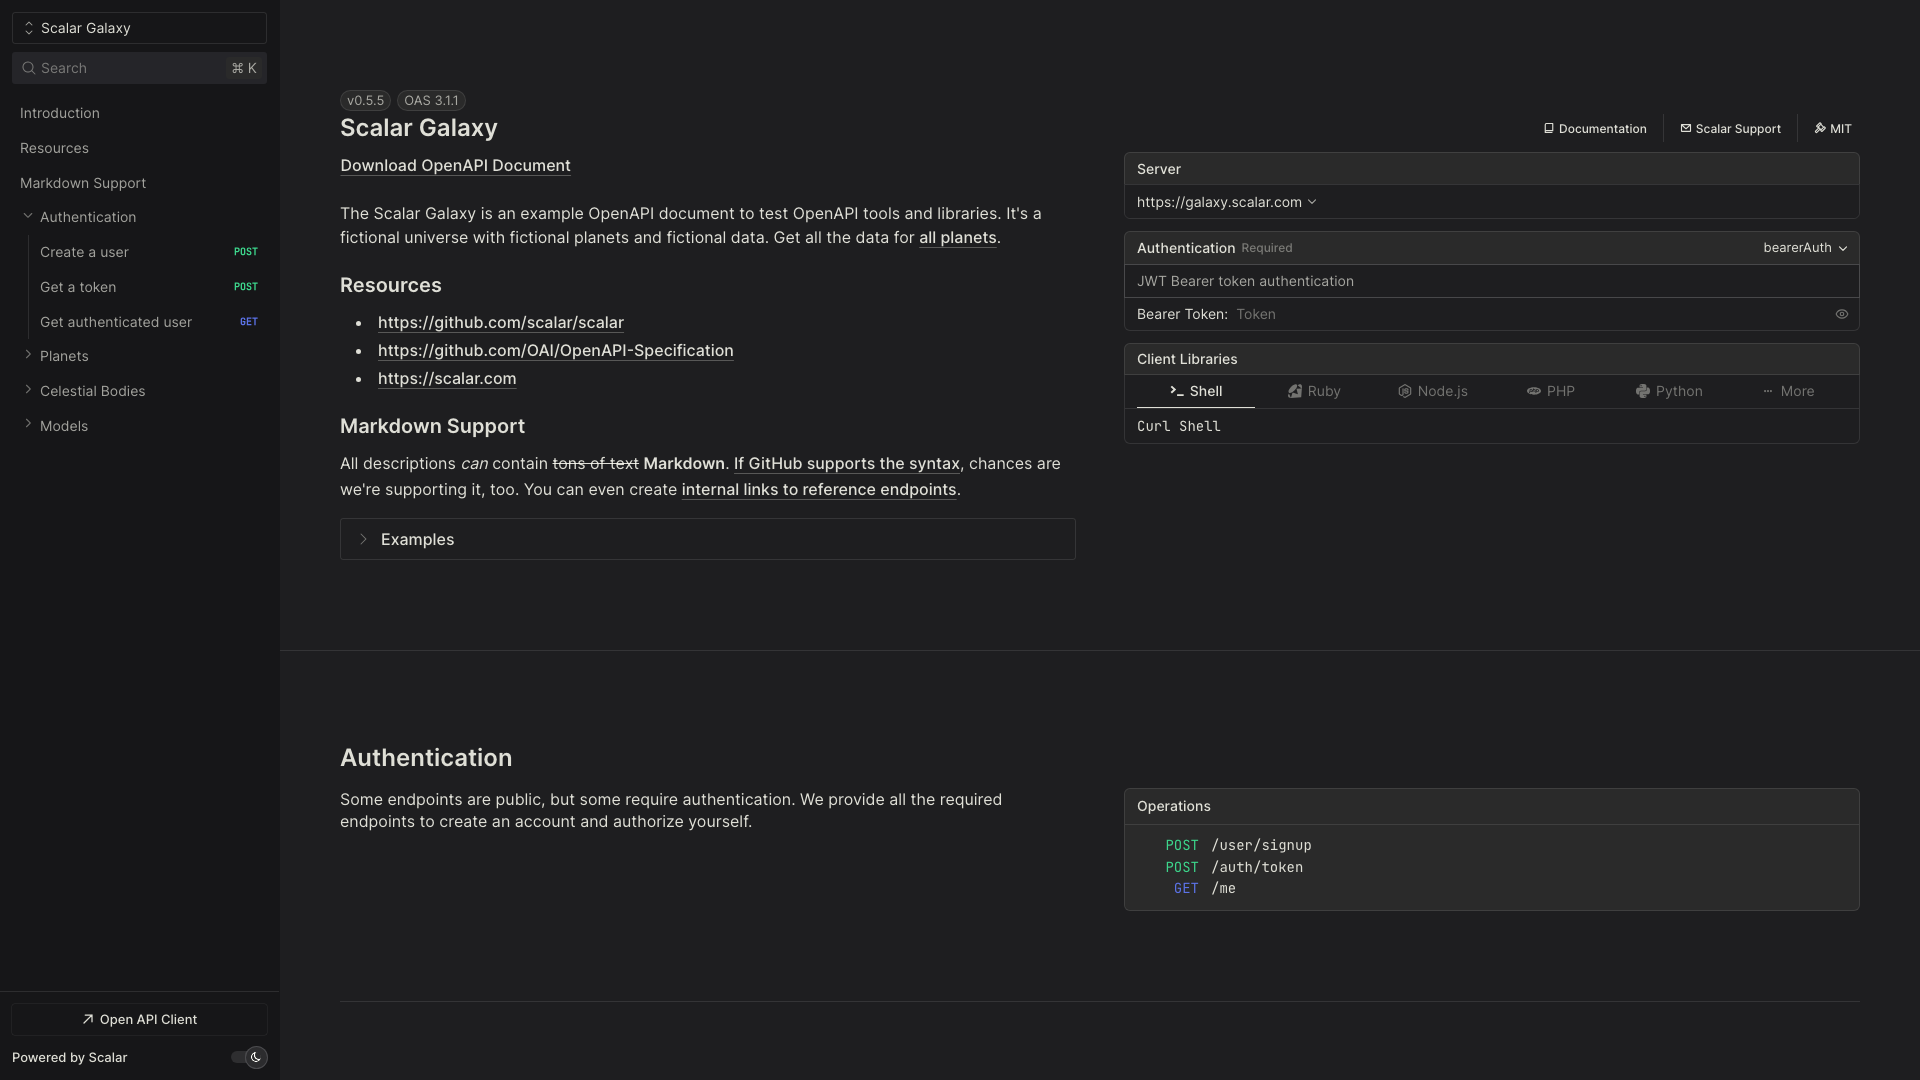
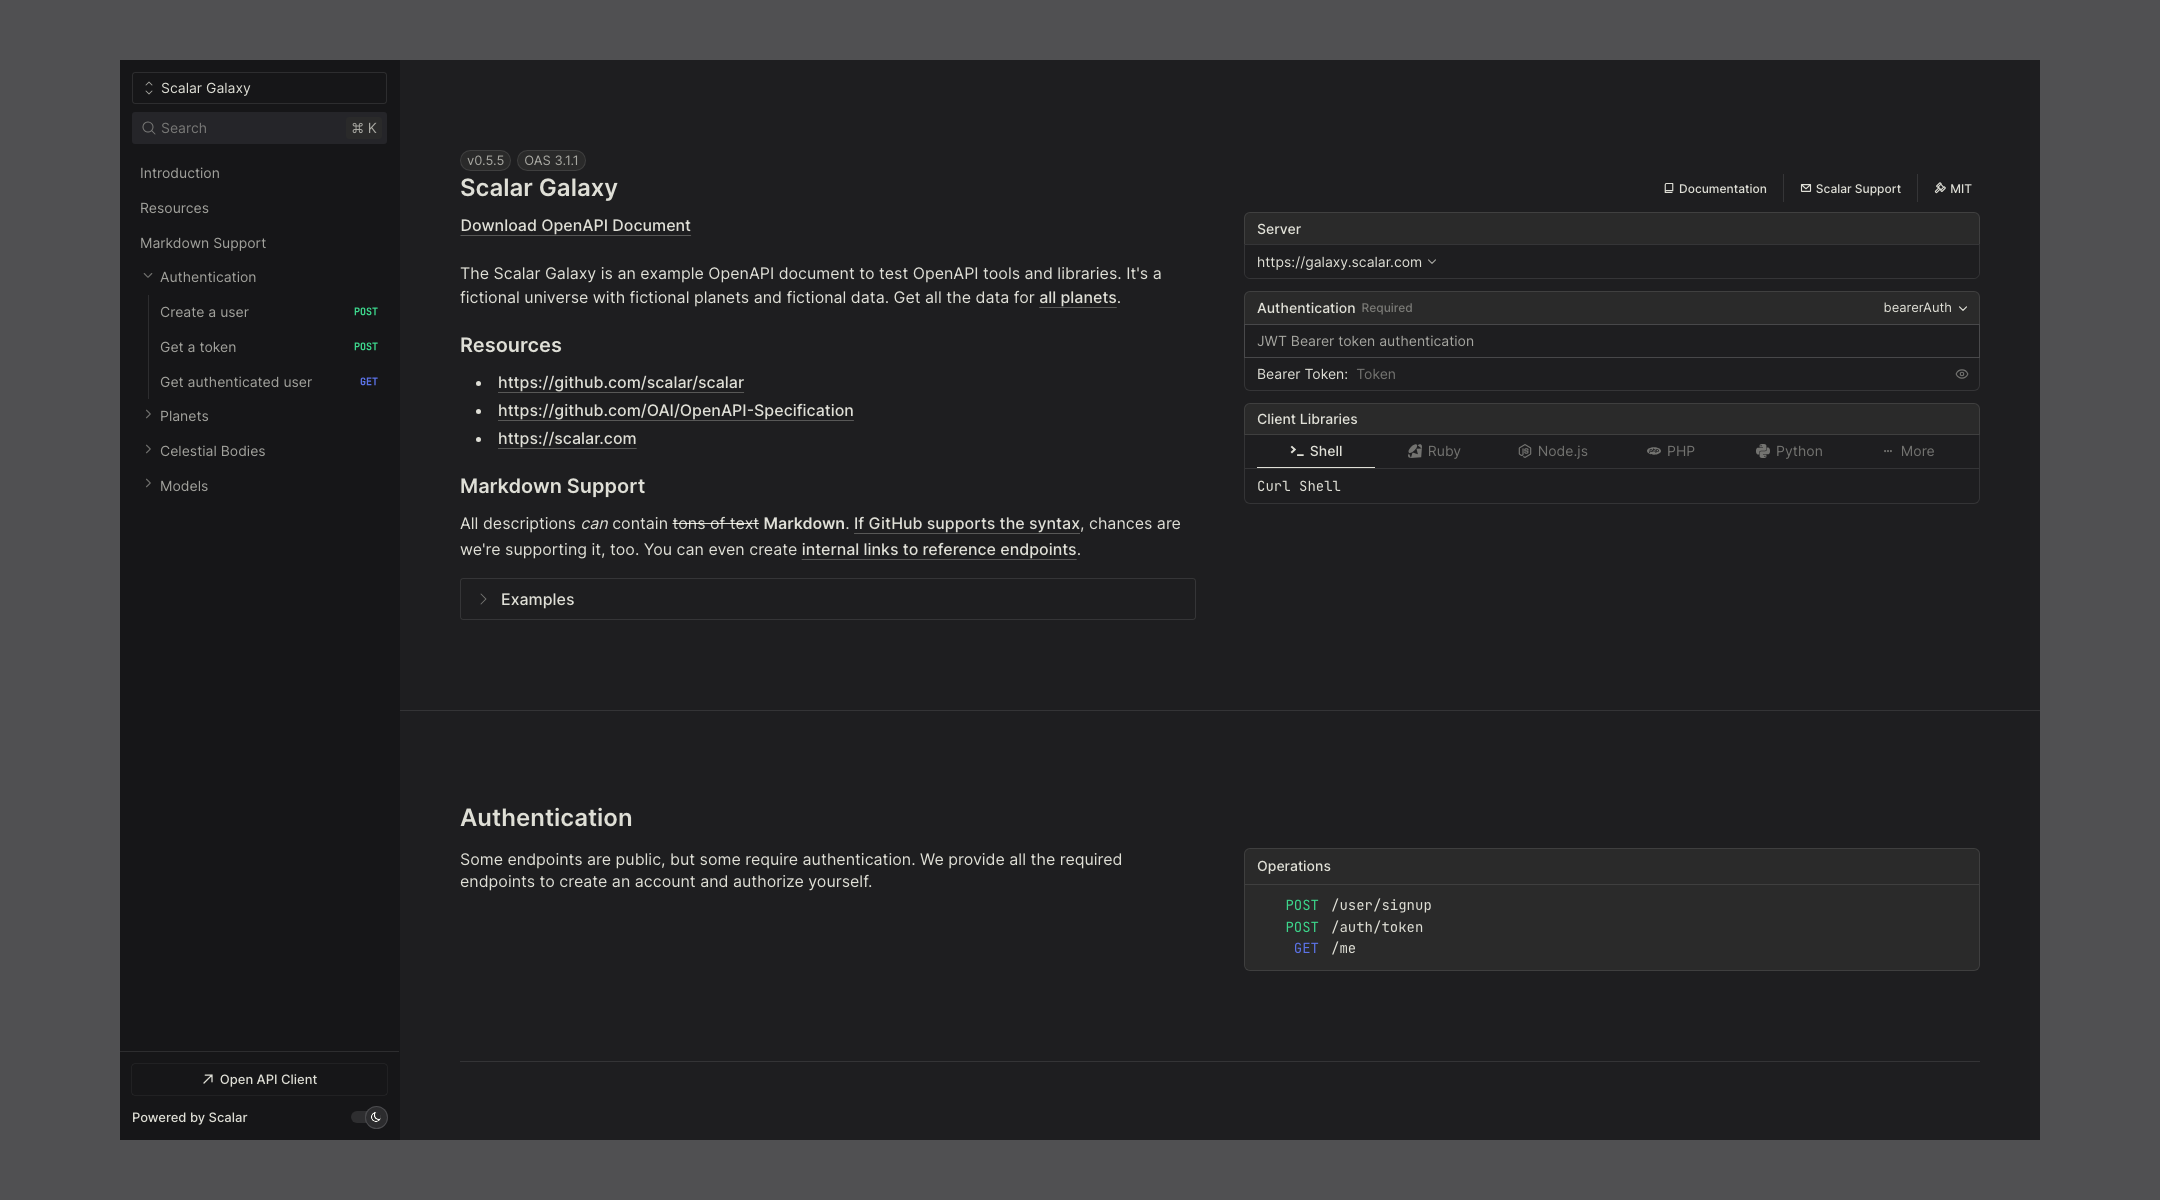
feat: add a frame to the screenshot

diff --git a/integrations/hono/scripts/screenshot.ts b/integrations/hono/scripts/screenshot.ts
@@ -2,6 +2,7 @@ import { existsSync, mkdirSync } from 'node:fs'
 import { dirname, join } from 'node:path'
 import { fileURLToPath } from 'node:url'
 import { chromium } from 'playwright'
+import sharp from 'sharp'
 
 const __filename = fileURLToPath(import.meta.url)
 const __dirname = dirname(__filename)
@@ -27,7 +28,7 @@ async function waitForServer(url: string, timeoutMs: number = 5000): Promise<voi
         console.log('✅ Server is available!')
         return
       }
-    } catch (error) {
+    } catch {
       // Server not ready yet, continue waiting
     }
 
@@ -39,8 +40,84 @@ async function waitForServer(url: string, timeoutMs: number = 5000): Promise<voi
 }
 
 /**
+ * Converts a hex color string to RGB values.
+ * Supports both 3-digit (#RGB) and 6-digit (#RRGGBB) hex formats.
+ */
+function hexToRgb(hex: string): { r: number; g: number; b: number } {
+  // Remove the # if present
+  const cleanHex = hex.replace('#', '')
+
+  // Handle 3-digit hex (#RGB)
+  if (cleanHex.length === 3) {
+    const r = Number.parseInt(cleanHex[0] + cleanHex[0], 16)
+    const g = Number.parseInt(cleanHex[1] + cleanHex[1], 16)
+    const b = Number.parseInt(cleanHex[2] + cleanHex[2], 16)
+    return { r, g, b }
+  }
+
+  // Handle 6-digit hex (#RRGGBB)
+  if (cleanHex.length === 6) {
+    const r = Number.parseInt(cleanHex.substring(0, 2), 16)
+    const g = Number.parseInt(cleanHex.substring(2, 4), 16)
+    const b = Number.parseInt(cleanHex.substring(4, 6), 16)
+    return { r, g, b }
+  }
+
+  // Default to light grey if invalid hex
+  return { r: 245, g: 245, b: 245 }
+}
+
+/**
+ * Adds a grey background frame around the screenshot.
+ * Creates a larger canvas with grey background and centers the screenshot on it.
+ */
+async function addFrameToScreenshot(
+  screenshotBuffer: Buffer,
+  frameHeight: number = 40,
+  frameWidth: number = 60,
+  backgroundColor: string = '#f5f5f5',
+): Promise<Buffer> {
+  // Get the original screenshot dimensions
+  const originalImage = sharp(screenshotBuffer)
+  const metadata = await originalImage.metadata()
+
+  if (!metadata.width || !metadata.height) {
+    throw new Error('Could not determine screenshot dimensions')
+  }
+
+  // Calculate new dimensions with frame
+  const newWidth = metadata.width + frameWidth * 2
+  const newHeight = metadata.height + frameHeight * 2
+
+  // Convert hex color to RGB
+  const rgbColor = hexToRgb(backgroundColor)
+
+  // Create a background canvas with the specified color
+  const background = sharp({
+    create: {
+      width: newWidth,
+      height: newHeight,
+      channels: 4,
+      background: { r: rgbColor.r, g: rgbColor.g, b: rgbColor.b, alpha: 1 },
+    },
+  })
+
+  // Composite the screenshot onto the background, centered
+  return background
+    .composite([
+      {
+        input: screenshotBuffer,
+        top: frameHeight,
+        left: frameWidth,
+      },
+    ])
+    .png()
+    .toBuffer()
+}
+
+/**
  * Screenshot script for the Hono API reference demo.
- * Connects to a running server and captures a screenshot of the main page.
+ * Connects to a running server and captures a screenshot of the main page with a frame.
  */
 async function takeScreenshot() {
   const PORT = 5054
@@ -81,15 +158,21 @@ async function takeScreenshot() {
       mkdirSync(screenshotsDir, { recursive: true })
     }
 
-    // Take a viewport-only screenshot
-    const viewportScreenshotPath = join(screenshotsDir, 'hono-api-reference-viewport.png')
-    console.log(`📷 Taking viewport screenshot: ${viewportScreenshotPath}`)
-    await page.screenshot({
-      path: viewportScreenshotPath,
+    // Take a viewport-only screenshot as buffer
+    console.log('📷 Taking viewport screenshot...')
+    const screenshotBuffer = await page.screenshot({
       fullPage: false,
     })
 
-    console.log('✅ Viewport screenshot saved successfully!')
+    // Add frame to the screenshot
+    console.log('🖼 Adding frame to screenshot...')
+
+    const framedScreenshot = await addFrameToScreenshot(screenshotBuffer, 60, 120, '#505052')
+    // Save the framed screenshot
+    const viewportScreenshotPath = join(screenshotsDir, 'hono-api-reference-viewport.png')
+    await sharp(framedScreenshot).toFile(viewportScreenshotPath)
+
+    console.log(`✅ Framed screenshot saved successfully: ${viewportScreenshotPath}`)
   } catch (error) {
     console.error('❌ Error taking screenshot:', error)
     process.exit(1)
